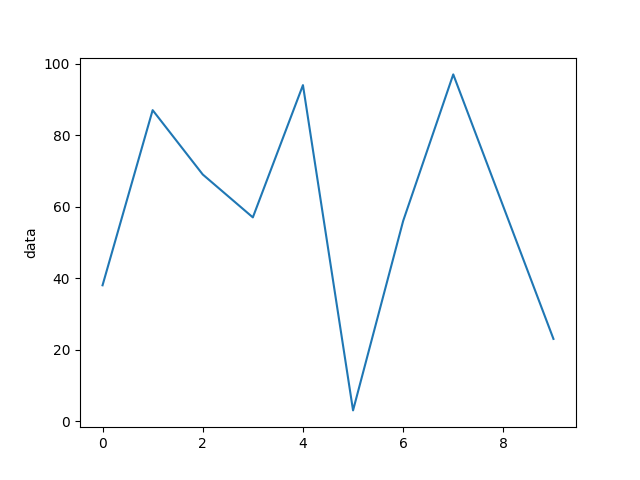
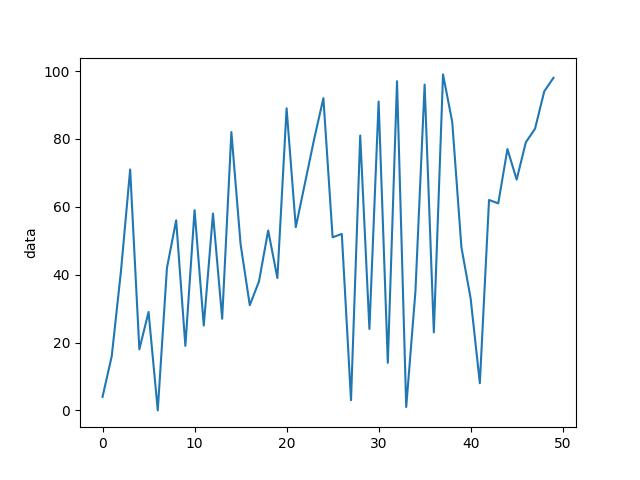
More commits

diff --git a/css/navstyles.css b/css/navstyles.css
@@ -9,6 +9,7 @@
     padding:10px;
     display:block;
     text-decoration:none;
+    font-family:verdana;
 }
 .nav-button:hover{
     background-color:#aaa;
@@ -18,4 +19,8 @@
     font-size:20px;
     font-weight:bold;
     text-overflow: ellipsis;
+}
+.top-nav-bar{
+    padding:40px;
+    background-color:#aaa;
 }

diff --git a/css/mystyles.css b/css/mystyles.css
@@ -1,12 +1,14 @@
-
-p{
+p, h1, h2, h3{
     font-family: verdana;
     font-size: 16px;
+}
+body{
+    width:100%;
+    height:100%;
 }
 div.left-section{
     float:left;
     width:20%;
-    margin: 20px;
 }
 div.middle-section{
     width:50%;

diff --git a/data/data.php b/data/data.php
@@ -1,14 +1,20 @@
 <html>
 <head>
-    <?php include('/globalheader.html'); ?>
+    <?php 
+	$path=$_SERVER['DOCUMENT_ROOT'];
+	$path.='/globalheader.html';
+	include_once($path);
+    ?>
     <link rel="stylesheet" href="/css/mystyles.css">
     <link rel="stylesheet" href="/css/navstyles.css">
     <meta name="viewport" content="width=device-width, initial-scale=1.0">
     <title>Data</title>
 </head>
 <body>
-<h1>Data</h1>
 
+<div>
+<div class="top-nav-bar">
+</div>
 <div class="left-section">
     <?php include("navhydr.html"); ?> <!--Navigation file --!>
 </div>
@@ -21,7 +27,9 @@
         <h3>Water</h3>
         <p>
             This is the average water consumed by the plants. It is measured by weighing the plants every 10 minutes to get the weight-gradient. Evaporation should also be taken into account.
+        <div style="text-align:center;">
         <img src="foo.png" style="max-width:100%;max-height:100%"></img>
+        </div>
     </div>
     <div id='Temperature' class="tabcontent">
         <h3>Temperature</h3>
@@ -29,6 +37,7 @@
             Varying temperature of the globe!
         </p>
     </div>
+</div>
 </div>
 <script>
 function openTab(evt, tabName) {

diff --git a/index.php b/index.php
@@ -1,25 +1,25 @@
 <!DOCTYPE html>
 <html>
-	<head>
+    <head>
         <?php include('globalheader.html') ?> 
         <!-- IMPORT CSS STYLES --!>
         <link type="text/css" rel="stylesheet" href="/css/mystyles.css">
         <link rel="stylesheet" href="/css/navstyles.css">
         <meta name="viewport" content="width=device-width, initial-scale=1.0">
         <title>Homepage</title>
-	</head>
+    </head>
     <body>
-        <h1 class="center" id="demo"> Header! </h1>
+    <div>
         <div class="top-nav-bar">
-            <a class="nav-button" href=""></a>
         </div>
         <div class="left-section"> 
             <?php include('navigation.html'); ?>    <!-- Include navigation --!>
         </div>
         <div class="middle-section">
-            <p class="middle-text"> 
+            <p class="center"> 
                 <?php include('text.txt'); ?>
             </p>
         </div>
+    </div>
     </body>         
 </html>

diff --git a/data/waterPlotGen.py b/data/waterPlotGen.py
@@ -4,7 +4,10 @@ import matplotlib.pyplot as plt
 import time
 import random
 
-L = random.sample(range(0, 100), 10);
-plt.plot(L)
-plt.ylabel('data')
-plt.savefig('foo.png')
+while True:
+    L = random.sample(range(0, 100), 50);
+    plt.plot(L)             # Plot the data
+    plt.ylabel('data')      # Set ylabel
+    plt.savefig('foo.png')  # Save the image to file
+    time.sleep(10)          # Wait 10 seconds
+    plt.clf()               # Clear the figure for next loop
